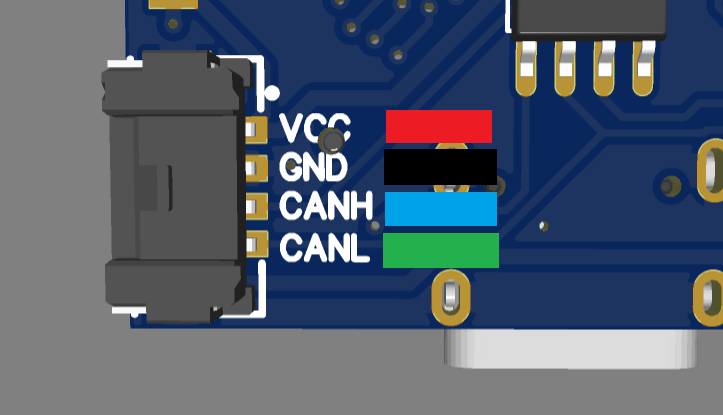
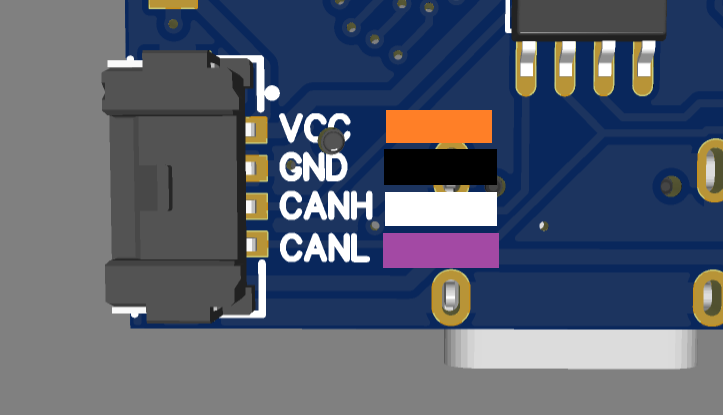
pinout diagram and io debug message

Changed region(s): [[0.5173, 0.4627, 0.6999, 0.6651], [0.5173, 0.2602, 0.6999, 0.347]]

diff --git a/Firmware/Examples/UART/Sixth_sense_uart_superloop/SixthSense_IO.cpp b/Firmware/Examples/UART/Sixth_sense_uart_superloop/SixthSense_IO.cpp
@@ -13,11 +13,10 @@ SixthSense_IO::SixthSense_IO() {
 
 bool SixthSense_IO::begin(const IO_Config_t &config) {
       io_config = config;
-      active_can_channel[0] = true;//Mark itself as active
+      active_can_channel[0] = true; // Mark itself as active
 
-      // Create 1-slot mailbox queue for zero-latency, fresh-only reads
       if (imu_data_queue == NULL) {
-            imu_data_queue = xQueueCreate(1, sizeof(Fusion_Data_t)); //Only 1 deep as mailbox, new data always overwrite old data
+            imu_data_queue = xQueueCreate(1, sizeof(Fusion_Data_t));
             if (imu_data_queue == NULL) {
                   Serial.println("[IO] Failed to create Mailbox Queue");
                   return false;
@@ -25,32 +24,32 @@ bool SixthSense_IO::begin(const IO_Config_t &config) {
       }
 
       twai_general_config_t twai_g_config = TWAI_GENERAL_CONFIG_DEFAULT(CAN_TWAI_TX, CAN_TWAI_RX, TWAI_MODE_NORMAL);
-      if ( io_config.mode == NODE_CENTRAL ){
-            twai_g_config.rx_queue_len = 512; //Massive rx buffer that can handle 10+ packets of full received data at 8bytes * 5 peripheral sensors
+      if (io_config.mode == NODE_CENTRAL) {
+            twai_g_config.rx_queue_len = 512;
       } else {
-            twai_g_config.rx_queue_len = 8; //Don't need anything for rx, but assign 8 because that is the minimum size requirement
+            twai_g_config.rx_queue_len = 8;
       }
+      twai_g_config.tx_queue_len = 32;
 
-      twai_g_config.tx_queue_len = 32; // max 8 data packs transmitted per cycle
+      // Enable alerts so neither Central nor Peripherals stay stuck in Bus-Off or RX Queue Full
+      twai_g_config.alerts_enabled = TWAI_ALERT_BUS_OFF | TWAI_ALERT_BUS_RECOVERED | TWAI_ALERT_ERR_PASS | TWAI_ALERT_RX_QUEUE_FULL;
 
       twai_filter_config_t twai_f_config;
-
       if (io_config.mode == NODE_PERIPHERAL) {
-            // Peripheral Mode: Reject all inbound frames in hardware to conserve CPU cycles
             twai_f_config.single_filter = true;
-            twai_f_config.acceptance_code = 0x00000000;
-            twai_f_config.acceptance_mask = 0x00000000; 
+            twai_f_config.acceptance_code = 0xFFFFFFFF; // Impossible match pattern
+            twai_f_config.acceptance_mask = 0x00000000; // Must match all 32 bits
       } else {
-            // Central Mode: Hardware filter for IDs 0 - 127
             twai_f_config = TWAI_FILTER_CONFIG_ACCEPT_ALL();
       }
 
-
       twai_timing_config_t twai_t_config;
-      if (io_config.CAN_1MHZ_en){
+      if (io_config.CAN_1MHZ_en) {
             twai_t_config = TWAI_TIMING_CONFIG_1MBITS();
       } else {
             twai_t_config = TWAI_TIMING_CONFIG_500KBITS();
+            // Increase SJW from 3 to 4 Tq to tolerate edge jitter / slew delay on longer cables
+            twai_t_config.sjw = 4;
       }
 
       if (twai_driver_install(&twai_g_config, &twai_t_config, &twai_f_config) != ESP_OK) {
@@ -172,18 +171,33 @@ void SixthSense_IO::receiveTask() {
       twai_message_t rx_msg;
 
       while (1) {
-            if (twai_receive(&rx_msg, portMAX_DELAY) == ESP_OK) {
-                  if (rx_msg.data_length_code != 8) {
-                        continue; //We only accept full 8 byte data because we know that everything else is not relevant
+            uint32_t alerts = 0;
+            if (twai_read_alerts(&alerts, 0) == ESP_OK) {
+                  if (alerts & TWAI_ALERT_BUS_OFF) {
+                        Serial.println("[IO] Central Bus-Off! Recovering...");
+                        twai_initiate_recovery();
+                  }
+                  if (alerts & TWAI_ALERT_BUS_RECOVERED) {
+                        twai_start();
+                  }
+                  if (alerts & TWAI_ALERT_RX_QUEUE_FULL) {
+                        twai_clear_receive_queue();
+                  }
+            }
+
+            if (twai_receive(&rx_msg, pdMS_TO_TICKS(50)) == ESP_OK) {
+                  // Ignore extended, remote (RTR), or non-8-byte frames
+                  if (rx_msg.extd || rx_msg.rtr || rx_msg.data_length_code != 8) {
+                        continue;
                   }
 
                   uint16_t base_id = (uint16_t)(rx_msg.identifier - (rx_msg.identifier % 10));
                   uint8_t msg_type = (uint8_t)(rx_msg.identifier % 10);
 
-                  int p_idx = getPeripheralIndex(base_id); // Check if this is a device we are configured to listen to
+                  int p_idx = getPeripheralIndex(base_id);
                   if (p_idx == -1) continue;
 
-                  active_can_channel[p_idx] = true; // Set the channel to active
+                  active_can_channel[p_idx] = true;
 
                   float f1, f2;
                   memcpy(&f1, &rx_msg.data[0], sizeof(float));
@@ -205,8 +219,25 @@ void SixthSense_IO::receiveTask() {
 }
 
 inline void SixthSense_IO::sendCANMessage(uint16_t msg_id, float f1, float f2) {
-      // Lean transmission: 11-bit standard frame, 0 timeout (drop if TX buffer full)
-      twai_message_t tx_msg;
+      // Check if peripheral fell into Bus-Off during startup / cable transient
+      uint32_t alerts = 0;
+      if (twai_read_alerts(&alerts, 0) == ESP_OK) {
+            if (alerts & TWAI_ALERT_BUS_OFF) {
+                  Serial.println("[IO] Peripheral Bus-Off detected! Initiating recovery...");
+                  twai_initiate_recovery();
+                  return;
+            }
+            if (alerts & TWAI_ALERT_BUS_RECOVERED) {
+                  twai_start();
+                  Serial.println("[IO] Peripheral Bus Recovered and Restarted.");
+            }
+            if (alerts & TWAI_ALERT_RX_QUEUE_FULL) {
+                  twai_clear_receive_queue();
+            }
+      }
+
+      // CRITICAL FIX: Zero-initialize struct so .ss (single-shot) and .self (loopback) are guaranteed 0!
+      twai_message_t tx_msg = {};
       tx_msg.identifier = msg_id;
       tx_msg.data_length_code = 8;
       tx_msg.extd = 0;
@@ -215,8 +246,8 @@ inline void SixthSense_IO::sendCANMessage(uint16_t msg_id, float f1, float f2) {
       memcpy(&tx_msg.data[0], &f1, sizeof(float));
       memcpy(&tx_msg.data[4], &f2, sizeof(float));
 
+      // Use a small 1-tick timeout or 0; since tx_queue_len = 32, 0 is fine for up to 8 frames/cycle
       twai_transmit(&tx_msg, 0);
-      //twai_transmit(&tx_msg, pdMS_TO_TICKS(1));//Wait up to 3ms before timeout
 }
 
 int SixthSense_IO::getPeripheralIndex(uint16_t base_id) {
